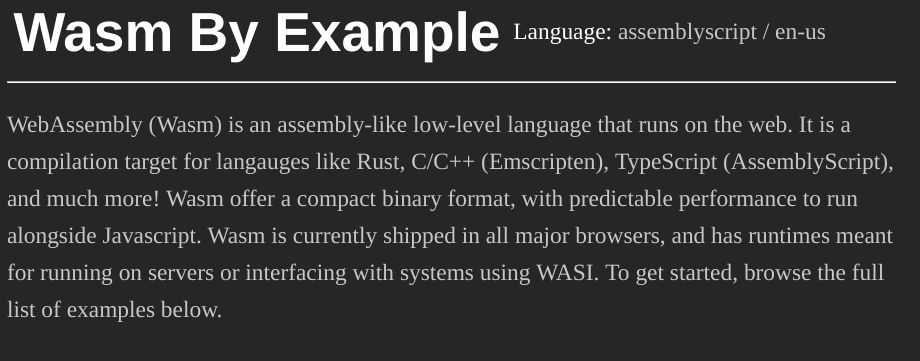
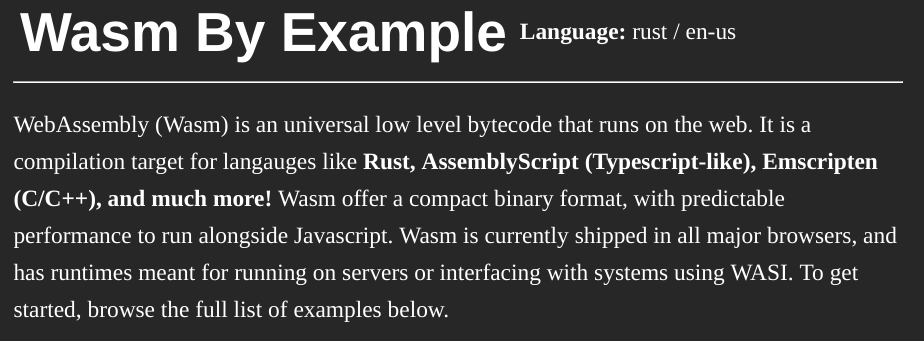
Renamed examples, fixed up Readmes

Changed region(s): [[0.0, 0.3226, 0.9739, 0.9384], [0.0, 0.0293, 0.9739, 0.2639]]

diff --git a/shell/additional-resources.html b/shell/additional-resources.html
@@ -29,15 +29,6 @@
         <a
           target="_blank"
           rel="noopener"
-          href="https://github.com/mbasso/awesome-wasm"
-        >
-          awesome-wasm
-        </a>
-      </li>
-      <li>
-        <a
-          target="_blank"
-          rel="noopener"
           href="https://developer.mozilla.org/en-US/docs/WebAssembly"
         >
           MDN WebAssembly Documentation
@@ -61,7 +52,36 @@
           Replacing a hot path in your app's JavaScript with WebAssembly (Surma)
         </a>
       </li>
+      <li>
+        <a
+          target="_blank"
+          rel="noopener"
+          href="https://github.com/mbasso/awesome-wasm"
+        >
+          awesome-wasm
+        </a>
+      </li>
+      <li>
+        <a
+          target="_blank"
+          rel="noopener"
+          href="https://github.com/appcypher/awesome-wasm-langs"
+        >
+          awesome-wasm-langs
+        </a>
+      </li>
+      <li>
+        <a
+          target="_blank"
+          rel="noopener"
+          href="https://github.com/appcypher/awesome-wasm-runtimes"
+        >
+          awesome-wasm-runtimes
+        </a>
+      </li>
     </ul>
+
+    <hr />
 
     <h2>Rust</h2>
     <ul>
@@ -205,6 +225,8 @@
         </a>
       </li>
     </ul>
+
+    <hr />
 
     <h2>Go</h2>
     <ul>

diff --git a/shell/index.html b/shell/index.html
@@ -15,7 +15,7 @@
     {{{partials.header}}}
 
     <p>
-      WebAssembly (Wasm) is an assembly-like low-level language that runs on the
+      WebAssembly (Wasm) is an universal low level bytecode that runs on the
       web. It is a compilation target for langauges like
       <b
         >Rust, AssemblyScript (Typescript-like), Emscripten (C/C++), and much

diff --git a/build-system/example-info.js b/build-system/example-info.js
@@ -11,7 +11,7 @@ const concepts = {
 
 const applyingTheConcepts = {
   title: "Applying the Concepts",
-  examples: ["graphics", "audio"]
+  examples: ["reading-and-writing-graphics", "reading-and-writing-audio"]
 };
 
 module.exports = {
